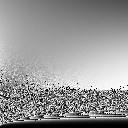
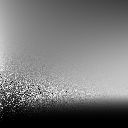
homework4 完成JS端PBR渲染+kulla-conty PBR渲染

diff --git a/homework4/src/engine.js b/homework4/src/engine.js
@@ -97,7 +97,7 @@ async function GAMES202Main() {
 
 	let metallic = 1.0;
 	let Sphere0Transform = setTransform(180, 60, 0, 180, 180, 180, 0, Math.PI, 0);
-	//loadGLTF(renderer, 'assets/ball/', 'ball', 'KullaContyMaterial', Sphere0Transform, metallic, 0.15);
+	loadGLTF(renderer, 'assets/ball/', 'ball', 'KullaContyMaterial', Sphere0Transform, metallic, 0.15);
 	let Sphere1Transform = setTransform(100, 60, 0, 180, 180, 180, 0, Math.PI, 0);
 	loadGLTF(renderer, 'assets/ball/', 'ball', 'KullaContyMaterial', Sphere1Transform, metallic, 0.35);
 	let Sphere2Transform = setTransform(20, 60, 0, 180, 180, 180, 0, Math.PI, 0);
@@ -108,7 +108,7 @@ async function GAMES202Main() {
 	loadGLTF(renderer, 'assets/ball/', 'ball', 'KullaContyMaterial', Sphere4Transform, metallic, 0.95);
 
 	let Sphere5Transform = setTransform(180, -60, 0, 180, 180, 180, 0, Math.PI, 0);
-	//loadGLTF(renderer, 'assets/ball/', 'ball', 'PBRMaterial', Sphere5Transform, metallic, 0.15);
+	loadGLTF(renderer, 'assets/ball/', 'ball', 'PBRMaterial', Sphere5Transform, metallic, 0.15);
 	let Sphere6Transform = setTransform(100, -60, 0, 180, 180, 180, 0, Math.PI, 0);
 	loadGLTF(renderer, 'assets/ball/', 'ball', 'PBRMaterial', Sphere6Transform, metallic, 0.35);
 	let Sphere7Transform = setTransform(20, -60, 0, 180, 180, 180, 0, Math.PI, 0);

diff --git a/homework4/src/materials/KullaContyMaterial.js b/homework4/src/materials/KullaContyMaterial.js
@@ -6,7 +6,7 @@ class KullaContyMaterial extends Material {
             'uMetallic': { type: '1f', value: metallic },
             'uRoughness': { type: '1f', value: roughness },
             'uBRDFLut': { type: 'texture', value: BRDFLut },
-            'uEavgFLut': { type: 'texture', value: EavgLut },
+            'uEavgLut': { type: 'texture', value: EavgLut },
             
             'uCubeTexture': { type: 'CubeTexture', value: null },
             'uLightRadiance': { type: '3fv', value: light.lightRadiance },
